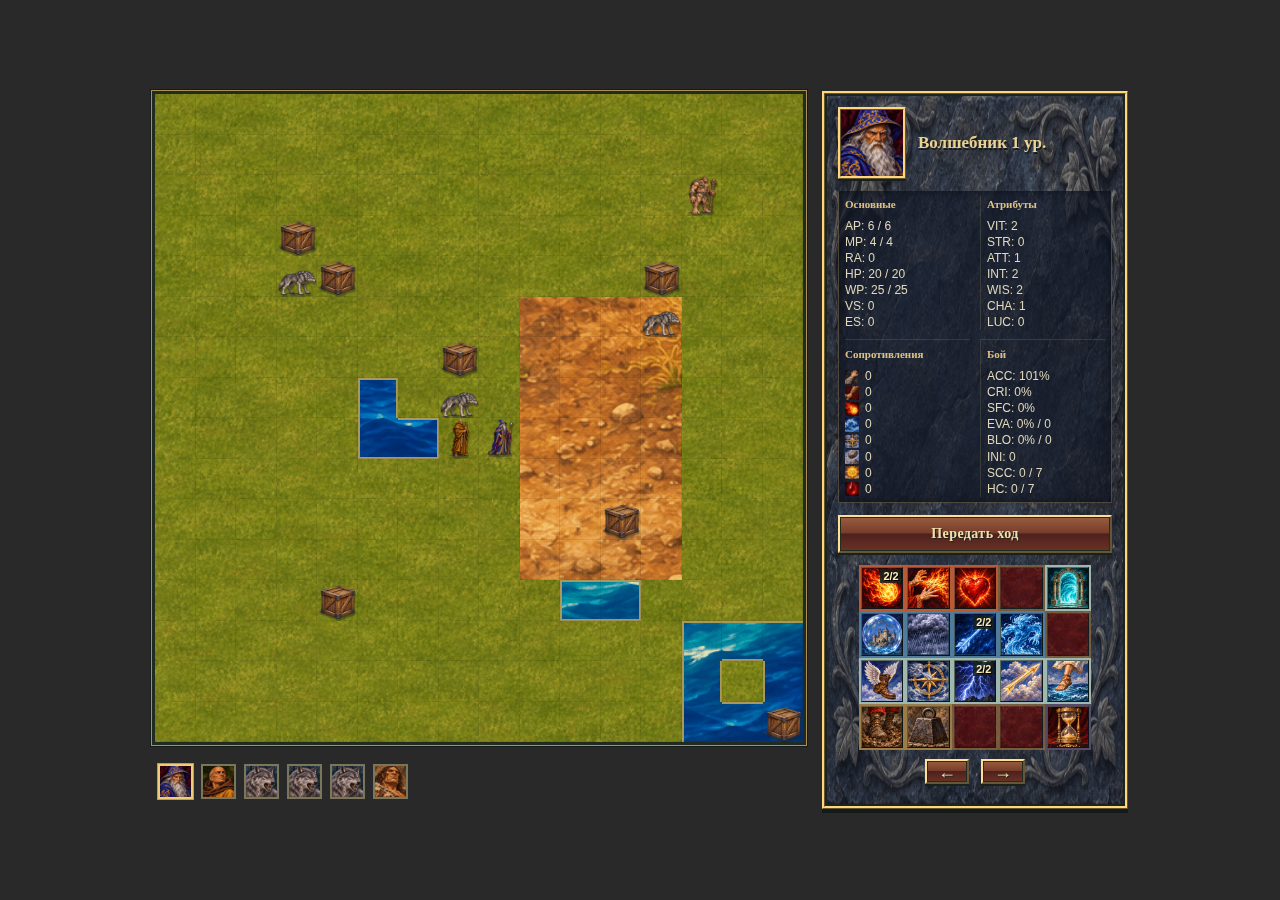
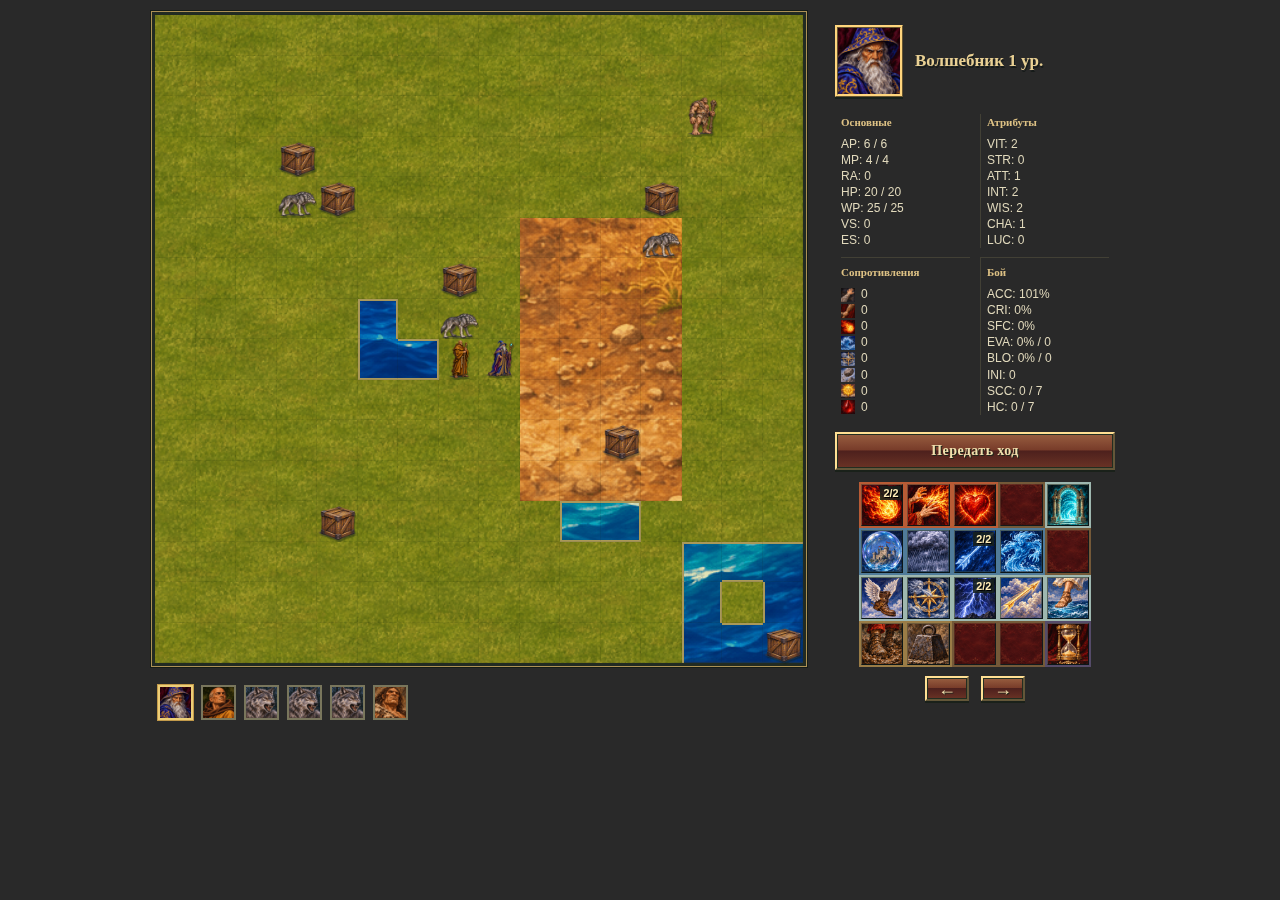
Remove right-panel background and internal height limits

diff --git a/homm2.css b/homm2.css
@@ -7,7 +7,9 @@
   --ink: #1c201f;
   --parchment: #e5d2a4;
 }
+html, body { height: auto; min-height: 100%; overflow-x: hidden; overflow-y: auto; }
 body {
+  min-height: 100dvh;
   background: #292929;
   color: var(--parchment);
   font-family: Georgia, 'Times New Roman', serif;
@@ -18,6 +20,8 @@ body {
   grid-template-areas: 'arena panel';
   gap: 16px;
   max-width: calc(100vw - 40px);
+  min-height: calc(100dvh - 24px);
+  margin-block: 12px;
 }
 .arena {
   grid-area: arena; width: auto; align-self: start;
@@ -56,11 +60,8 @@ svg, svg image, #creature-portrait { image-rendering: auto; }
 .turn-slot.active { border-color: #edce77; background: linear-gradient(#74633d,#413d28); box-shadow: 0 0 0 1px #c29a4a, inset 1px 1px #ead58f; }
 .panel {
   grid-area: panel; width: 306px; align-self: stretch;
-  max-height: calc(100dvh - 136px); padding: 13px;
-  background: #222c3b url('assets/homm2/stone.png') center/100% 100%;
-  border: 3px ridge var(--gold); border-radius: 0;
-  box-shadow: 0 4px 0 #131a17, inset 0 0 0 2px #1b251e;
-  scrollbar-width: thin; scrollbar-color: #8c774a #202820;
+  max-height: none; overflow: visible; padding: 13px;
+  background: transparent; border: 0; border-radius: 0; box-shadow: none;
 }
 .hero-masthead {
   display: flex; align-items: center; gap: 12px;
@@ -73,7 +74,7 @@ svg, svg image, #creature-portrait { image-rendering: auto; }
 }
 #creature-portrait { display: block; width: 100%; height: 100%; object-fit: cover; }
 .panel h1 { margin: 0; color: #ead194; font: bold 17px/1.3 Georgia, serif; text-shadow: 1px 2px #161b19; }
-.stats { font-family: 'Trebuchet MS', Arial, sans-serif; font-size: 12px; line-height: 1.26; gap: 9px 10px; color: #e1d9bc; padding: 5px 6px; border: 1px solid #b99a5b55; border-top: 0; background: #1017259c; box-shadow: inset 0 0 12px #080c16b0; }
+.stats { font-family: 'Trebuchet MS', Arial, sans-serif; font-size: 12px; line-height: 1.26; gap: 9px 10px; color: #e1d9bc; padding: 5px 6px; border: 0; background: transparent; box-shadow: none; }
 .stat-column h2 { color: #ddc184; font: bold 11px/1.6 Georgia, serif; margin-bottom: 4px; }
 .stat-column:nth-child(even), .stat-column:nth-child(n+3) { border-color: #7d77534d; }
 .stat-column > span { min-height: 15px; }
@@ -146,15 +147,14 @@ button:focus-visible { outline: 2px solid #ffe8a0; outline-offset: 2px; }
 @media (max-height: 760px) and (min-width: 641px) {
   .hero-masthead { margin-bottom: 8px; }
   .portrait-frame { width: 44px; height: 46px; flex-basis: 44px; }
-  .panel { max-height: calc(100dvh - 100px); }
   #battlefield { width: min(calc(100vw - 406px), calc(100dvh - 214px)); }
 }
 @media (max-width: 640px) {
   html, body { overflow: auto; height: auto; min-height: 100%; }
-  body { display: block; }
+  body { display: block; min-height: 100dvh; }
   .game {
     display: flex; flex-direction: column; align-items: stretch;
-    max-width: none; width: calc(100% - 16px); margin: 8px auto 12px; gap: 10px;
+    max-width: none; min-height: 0; width: calc(100% - 16px); margin: 8px auto 12px; gap: 10px;
   }
   .arena { gap: 7px; align-self: stretch; }
   #battlefield { width: 100%; }

diff --git a/GRAPHICS.md b/GRAPHICS.md
@@ -3,9 +3,10 @@
 Ветка `dev-homm2-graphics`: живописная растровая графика в духе фэнтези-стратегий
 1990-х. Детализированные существа с реалистичными пропорциями, отдельные портреты,
 иллюстрированные иконки заклинаний и состояний, цельная поверхность поля без
-повторяющихся штампов травы. Панель существа оформлена резным камнем и золотыми
-рамками; в очереди отображаются портреты. Общий фон тёмно-серый, поле и очередь
-не имеют общей декоративной подложки. Книга — сетка иконок вплотную, без фона,
+повторяющихся штампов травы. В панели и очереди отображаются портреты существ.
+Общий фон тёмно-серый; поле, очередь и панель существа не имеют декоративной
+подложки. Правая панель занимает доступную высоту и не обрезает содержимое:
+при низком окне прокручивается вся страница, а не панель. Книга — сетка иконок вплотную, без фона,
 внутренних отступов, заголовка и пояснений по управлению.
 Все ресурсы локальные: внешние шрифты, CDN и загрузка чужих игровых ресурсов не нужны.
 
